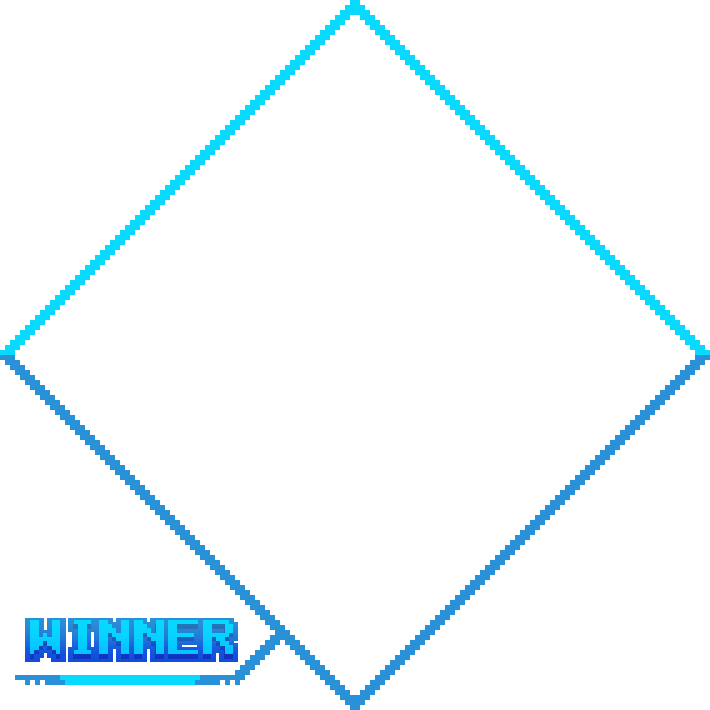
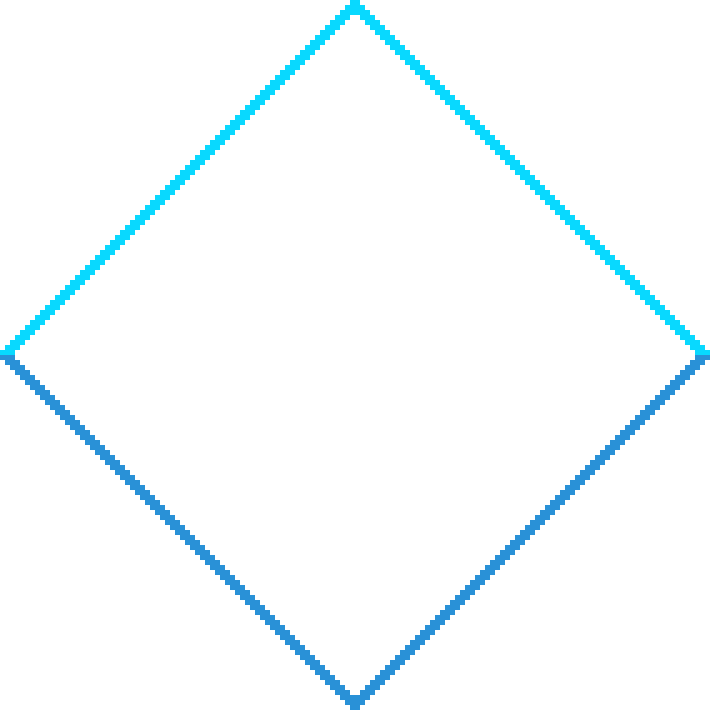
選択画面からゲーム画面への遷移のとき、遷移の変化率適用 リザルト画面のキャラのフレームのWinner文字消し。

Changed region(s): [[0.031, 0.8676, 0.4028, 0.9915]]

diff --git a/src/IntoTheAbyss/DrawMapChipForSceneChange.cpp b/src/IntoTheAbyss/DrawMapChipForSceneChange.cpp
@@ -81,16 +81,16 @@ void DrawMapChipForSceneChange::Update()
 
 #include"ClearInfoContainer.h"
 #include"DrawFunc.h"
-void DrawMapChipForSceneChange::Draw()
+void DrawMapChipForSceneChange::Draw(const float& ChangeRate)
 {
-	static auto BLACK = D3D12App::Instance()->GenerateTextureBuffer(Color(0.0f, 0.0f, 0.0f, 0.1f));
+	static auto BLACK = D3D12App::Instance()->GenerateTextureBuffer(Color(0.0f, 0.0f, 0.0f, 0.3f));
 
-	if (isSS)
-	{
+	//if (isSS)
+	//{
 		KuroEngine::Instance().Graphics().SetRenderTargets({ mapBuffer });
 		KuroEngine::Instance().Graphics().ClearRenderTarget({ mapBuffer });
 		DrawMapChip(mapChip, mapChipDraw, stageNum, 0);
-		DrawFunc::DrawExtendGraph2D({ 0,0 }, mapBuffer->GetGraphSize().Float(), BLACK);
+		DrawFunc::DrawExtendGraph2D({ 0,0 }, mapBuffer->GetGraphSize().Float(), BLACK, Color(1.0f, 1.0f, 1.0f, (1.0f - ChangeRate)));
 
 		auto& clearInfoContainer = ClearInfoContainerMgr::Instance()->GetContainer(stageNum);
 		if (clearInfoContainer.clear)
@@ -101,7 +101,7 @@ void DrawMapChipForSceneChange::Draw()
 		KuroEngine::Instance().Graphics().SetRenderTargets({ mapBuffer });
 		crt.DrawResult(AlphaBlendMode_None);
 		KuroEngine::Instance().Graphics().SetRenderTargets({ D3D12App::Instance()->GetBackBuffRenderTarget() });
-	}
+	//}
 }
 
 void DrawMapChipForSceneChange::DrawMapChip(const vector<vector<int>> &mapChipData, vector<vector<MapChipDrawData>> &mapChipDrawData, const int &stageNum, const int &roomNum)

diff --git a/src/StageSelectScene.cpp b/src/StageSelectScene.cpp
@@ -252,8 +252,8 @@ void StageSelectScene::OnDraw()
 	leftChara.Draw();
 	rightChara.Draw();
 
-	mapScreenShot[stageNum][STAGE_SELECT].Draw();
-	mapScreenShot[stageNum][SCENE_CHANGE].Draw();
+	mapScreenShot[stageNum][STAGE_SELECT].Draw(maskSceneChange->GetChangeRate());
+	mapScreenShot[stageNum][SCENE_CHANGE].Draw(maskSceneChange->GetChangeRate());
 
 	DrawFunc::DrawExtendGraph2D(Vec2<float>(0, 0), WinApp::Instance()->GetExpandWinSize(), D3D12App::Instance()->GenerateTextureBuffer(Color(56, 22, 74, backAlpha)));
 

diff --git a/src/IntoTheAbyss/DrawMapChipForSceneChange.h b/src/IntoTheAbyss/DrawMapChipForSceneChange.h
@@ -17,7 +17,7 @@ public:
 	void Init(int STAGE_NUM, bool SCENE_CHANGE_FLAG);
 	void Finalize();
 	void Update();
-	void Draw();
+	void Draw(const float& ChangeRate);
 
 	std::shared_ptr<RenderTarget> mapBuffer;
 private:

diff --git a/src/IntoTheAbyss/MaskSceneTransition.cpp b/src/IntoTheAbyss/MaskSceneTransition.cpp
@@ -58,6 +58,8 @@ bool MaskSceneTransition::OnUpdate()
 	{
 		expRate = 0;
 		startFlag = false;
+		t = 0.0f;
+		nowTrans = false;
 		return true;
 	}
 
